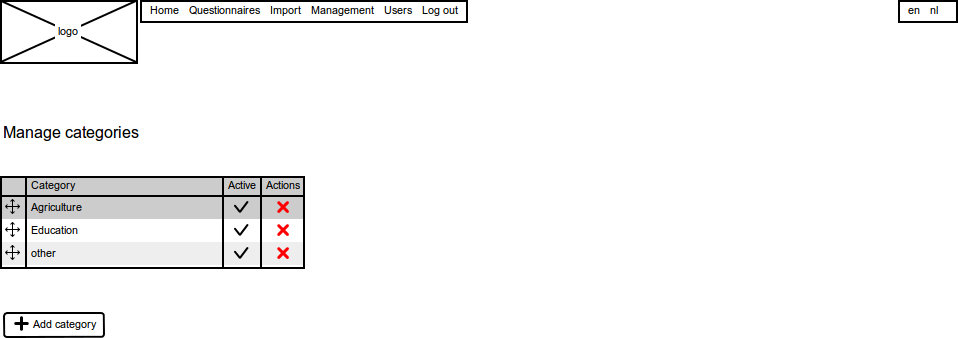
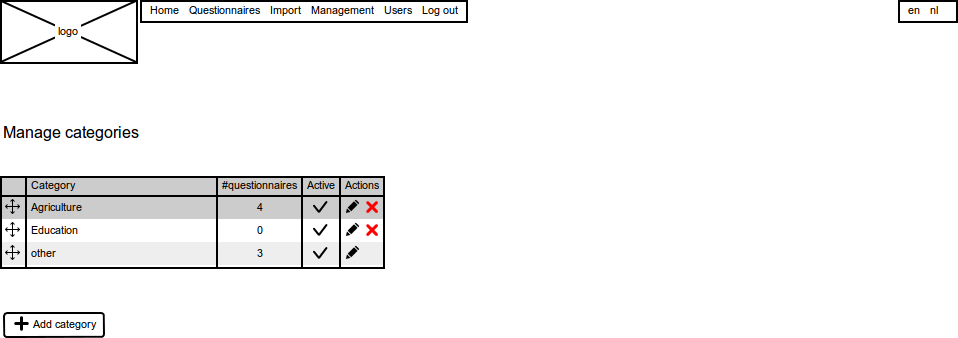
adjusted delete category even if category has questionnaires. see also https://www.pivotaltracker.com/story/show/42708779

Changed region(s): [[0.2119, 0.503, 0.4238, 0.7988]]

diff --git a/wireframes/index_files/story.js b/wireframes/index_files/story.js
@@ -576,6 +576,33 @@ var story = {
       25,
       267
      ]
+    },
+    {
+     "page": 25,
+     "rect": [
+      360,
+      198,
+      385,
+      219
+     ]
+    },
+    {
+     "page": 24,
+     "rect": [
+      360,
+      218,
+      385,
+      243
+     ]
+    },
+    {
+     "page": 8,
+     "rect": [
+      336,
+      198,
+      361,
+      267
+     ]
     }
    ]
   },
@@ -2122,6 +2149,58 @@ var story = {
       208,
       379,
       231
+     ]
+    }
+   ]
+  },
+  {
+   "title": "delete-category-confirmation-noQuestionnaires",
+   "height": 119,
+   "width": 409,
+   "image": "25-delete-category-confirmation-noQuestionnaires.png",
+   "links": [
+    {
+     "page": 6,
+     "rect": [
+      168,
+      96,
+      204,
+      119
+     ]
+    },
+    {
+     "page": 6,
+     "rect": [
+      120,
+      96,
+      152,
+      119
+     ]
+    }
+   ]
+  },
+  {
+   "title": "delete-category-confirmation-withQuestionnaires",
+   "height": 135,
+   "width": 409,
+   "image": "26-delete-category-confirmation-withQuestionnaires.png",
+   "links": [
+    {
+     "page": 6,
+     "rect": [
+      160,
+      112,
+      196,
+      135
+     ]
+    },
+    {
+     "page": 6,
+     "rect": [
+      115,
+      112,
+      147,
+      135
      ]
     }
    ]
